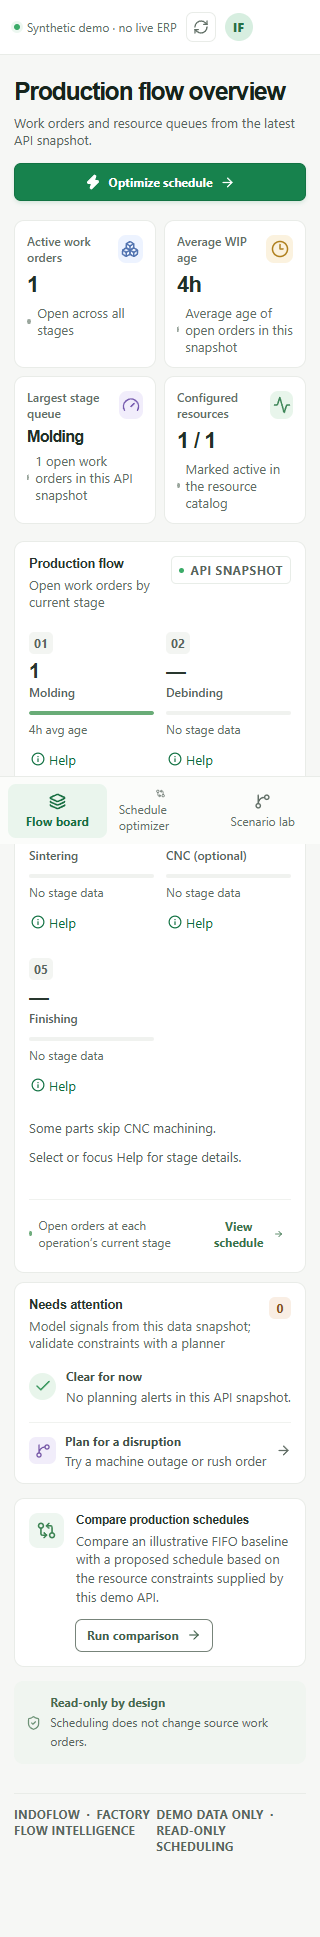
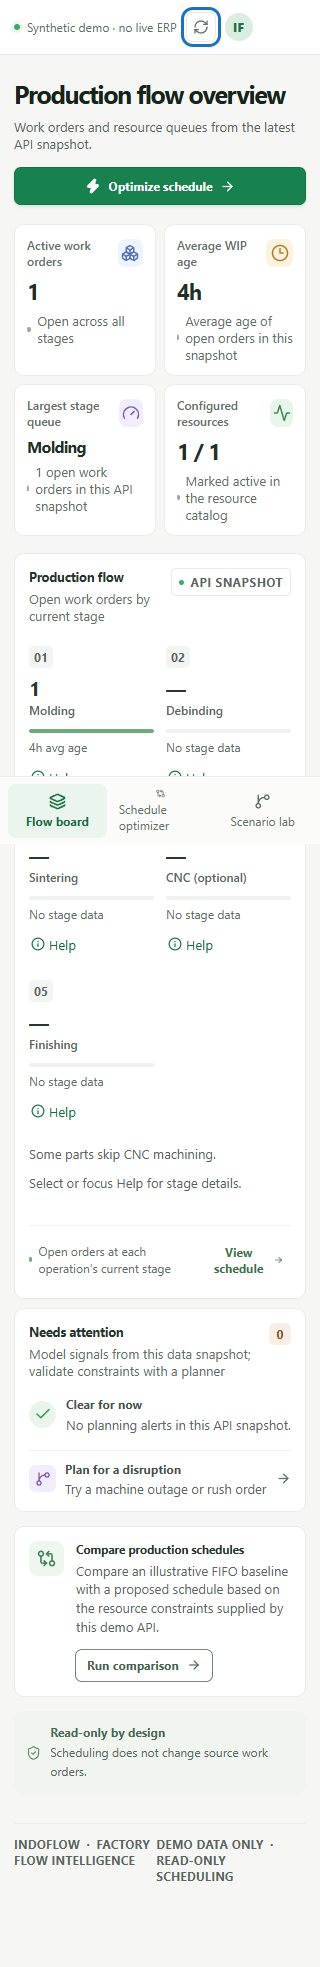
Recover Gantt focus when selected data changes

diff --git a/frontend/src/Gantt.tsx b/frontend/src/Gantt.tsx
@@ -86,12 +86,14 @@ export function Gantt({
   }
   const activeFilters = Object.values(filters).filter(Boolean).length
   const [selected, setSelected] = useState<Operation | null>(null)
+  const [selectionNotice, setSelectionNotice] = useState('')
   const [hovered, setHovered] = useState<{ item: Operation; rect: DOMRect } | null>(null)
   const detailId = useId()
   const focusedSelection = useRef<Operation | null>(null)
   const selectedBar = useRef<HTMLButtonElement | null>(null)
   const hoveredBar = useRef<HTMLButtonElement | null>(null)
   const detailRef = useRef<HTMLDivElement | null>(null)
+  const detailHasFocus = useRef(false)
   const timelineEndRef = useRef<HTMLDivElement | null>(null)
   const rows = useMemo(() => {
     const grouped = new Map<string, Operation[]>()
@@ -130,6 +132,13 @@ export function Gantt({
     focusedSelection.current = selected
   }, [selected, selectedOperation])
   useEffect(() => {
+    if (!selected || selectedOperation) return
+    if (detailHasFocus.current) stageFilter.current?.focus()
+    detailHasFocus.current = false
+    setSelected(null)
+    setSelectionNotice('The selected operation is no longer available in this schedule.')
+  }, [selected, selectedOperation])
+  useEffect(() => {
     if (!hoveredOperation || selectedOperation) return
     const dismiss = (event: KeyboardEvent) => {
       if (event.key === 'Escape') setHovered(null)
@@ -164,6 +173,9 @@ export function Gantt({
   }, [selectedOperation])
   return (
     <>
+      <div className="sr-only" role="status">
+        {selectionNotice}
+      </div>
       <div className="gantt-controls" aria-label="Timeline filters">
         <label>
           Stage
@@ -276,6 +288,7 @@ export function Gantt({
                       onClick={(event) => {
                         selectedBar.current = event.currentTarget
                         setHovered(null)
+                        setSelectionNotice('')
                         setSelected(item)
                         if (selectedOperation === item) detailRef.current?.focus()
                       }}
@@ -411,6 +424,7 @@ export function Gantt({
                             onClick={(event) => {
                               selectedBar.current = event.currentTarget
                               setHovered(null)
+                              setSelectionNotice('')
                               setSelected(item)
                             }}
                           >
@@ -446,6 +460,16 @@ export function Gantt({
           <div
             ref={detailRef}
             className="gantt-detail"
+            onFocusCapture={() => {
+              detailHasFocus.current = true
+            }}
+            onBlurCapture={(event) => {
+              if (
+                !(event.relatedTarget instanceof Node) ||
+                !event.currentTarget.contains(event.relatedTarget)
+              )
+                detailHasFocus.current = false
+            }}
             id={selectedOperation ? detailId : undefined}
             role={selectedOperation ? 'region' : undefined}
             aria-label={selectedOperation ? 'Selected operation details' : undefined}

diff --git a/frontend/src/Gantt.test.tsx b/frontend/src/Gantt.test.tsx
@@ -119,6 +119,36 @@ describe('Gantt controls', () => {
     expect(status).toHaveFocus()
   })
 
+  it('returns focus and announces when a selected operation disappears', async () => {
+    const { rerender } = render(<Gantt operations={[first]} maxHour={24} />)
+    fireEvent.click(screen.getByRole('button', { name: /^WO-1, A/ }))
+    expect(screen.getByRole('region', { name: 'Selected operation details' })).toHaveFocus()
+
+    rerender(<Gantt operations={[]} maxHour={24} />)
+
+    await waitFor(() => expect(screen.getByLabelText('Stage')).toHaveFocus())
+    expect(screen.getByRole('status')).toHaveTextContent(
+      'selected operation is no longer available',
+    )
+    rerender(<Gantt operations={[first]} maxHour={24} />)
+    expect(screen.queryByRole('region', { name: 'Selected operation details' })).toBeNull()
+  })
+
+  it('does not move focus when an operation changes after the user leaves its details', async () => {
+    const { rerender } = render(<Gantt operations={[first]} maxHour={24} />)
+    fireEvent.click(screen.getByRole('button', { name: /^WO-1, A/ }))
+    const status = screen.getByLabelText('Status')
+    status.focus()
+    rerender(<Gantt operations={[{ ...first, end_hour: 12 }]} maxHour={24} />)
+
+    await waitFor(() =>
+      expect(screen.getByRole('status')).toHaveTextContent(
+        'selected operation is no longer available',
+      ),
+    )
+    expect(status).toHaveFocus()
+  })
+
   it('keeps overlapping operations discoverable and supports zoom and table selection', () => {
     const { container, rerender } = render(<Gantt operations={[first, second]} maxHour={24} />)
     const bars = container.querySelectorAll<HTMLButtonElement>('.gantt-bar')

diff --git a/frontend/src/styles.css b/frontend/src/styles.css
@@ -66,6 +66,17 @@
 * {
   box-sizing: border-box;
 }
+.sr-only {
+  position: absolute;
+  width: 1px;
+  height: 1px;
+  padding: 0;
+  margin: -1px;
+  overflow: hidden;
+  clip-path: inset(50%);
+  white-space: nowrap;
+  border: 0;
+}
 body {
   margin: 0;
   min-width: 360px;

diff --git a/frontend/docs/FRONTEND_IMPLEMENTATION_HANDOFF.md b/frontend/docs/FRONTEND_IMPLEMENTATION_HANDOFF.md
@@ -12,7 +12,8 @@
 
 ## Verification completed
 
-- Gantt selection remains visible when the same operation is supplied as a cloned object, without moving focus back from another control. The component test covers both cases. An operation whose data actually changes has no stable API operation ID; selection continuity and focus for that case remain open.
+- Gantt selection remains visible when the same operation is supplied as a cloned object. If the selected operation changes or disappears, the selection is cleared and a status message explains why; focus returns to Stage only when it was inside the removed details. Component tests cover both focus paths. The API has no stable operation ID, so selection continuity across changed data is not available. A synthetic Edge component check also verified focus return and the status message when the operation disappears.
+- Added the missing screen-reader-only utility used by existing labels and the new status message. The synthetic Edge walkthrough passed, and the refreshed 320 px board and mobile Gantt screenshots were inspected. Screen-reader speech still needs a manual review.
 - The error, empty and loading state colors were reviewed in source; sampled normal text meets 4.5:1 and sampled select and machine icons meet 3:1. This is not a full rendered-state contrast audit.
 
 - Headings and metric values now use the documented sans font stack consistently. The synthetic Edge walkthrough passed after the font change; the 320 px board and mobile Gantt captures were inspected. A singular timeline count wording issue found in that review was corrected and covered by Gantt tests. Full visual-state and token audits remain open.
